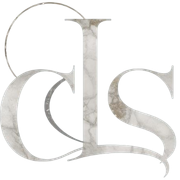
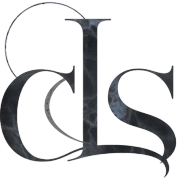
fix: 로고 variant 매핑 교체 및 파비콘 어두운 계열로 변경
- 헤더/푸터 로고 variant 매핑 swap (대비 개선)
  - 히어로(다크 배경): 밝은 대리석 로고
  - 스크롤 헤더(밝은 배경): 어두운 대리석 로고
  - 푸터(다크 배경): 밝은 대리석 로고
- 파비콘/아이콘을 어두운 계열 로고로 재생성 (흰 브라우저 탭 대비)

diff --git a/src/components/ui/CLSLogo.tsx b/src/components/ui/CLSLogo.tsx
@@ -20,9 +20,9 @@ export default function CLSLogo({
   };
 
   const s = sizeMap[size];
-  // light variant (for dark backgrounds) = dark_logo (white marble on dark)
-  // dark variant (for light backgrounds) = light_logo (black/gold on light)
-  const src = variant === "light" ? "/logo-dark.webp" : "/logo-light.webp";
+  // light variant (for dark backgrounds) = light_logo (밝은 대리석)
+  // dark variant (for light backgrounds) = dark_logo (어두운 대리석)
+  const src = variant === "light" ? "/logo-light.webp" : "/logo-dark.webp";
 
   return (
     <Image
